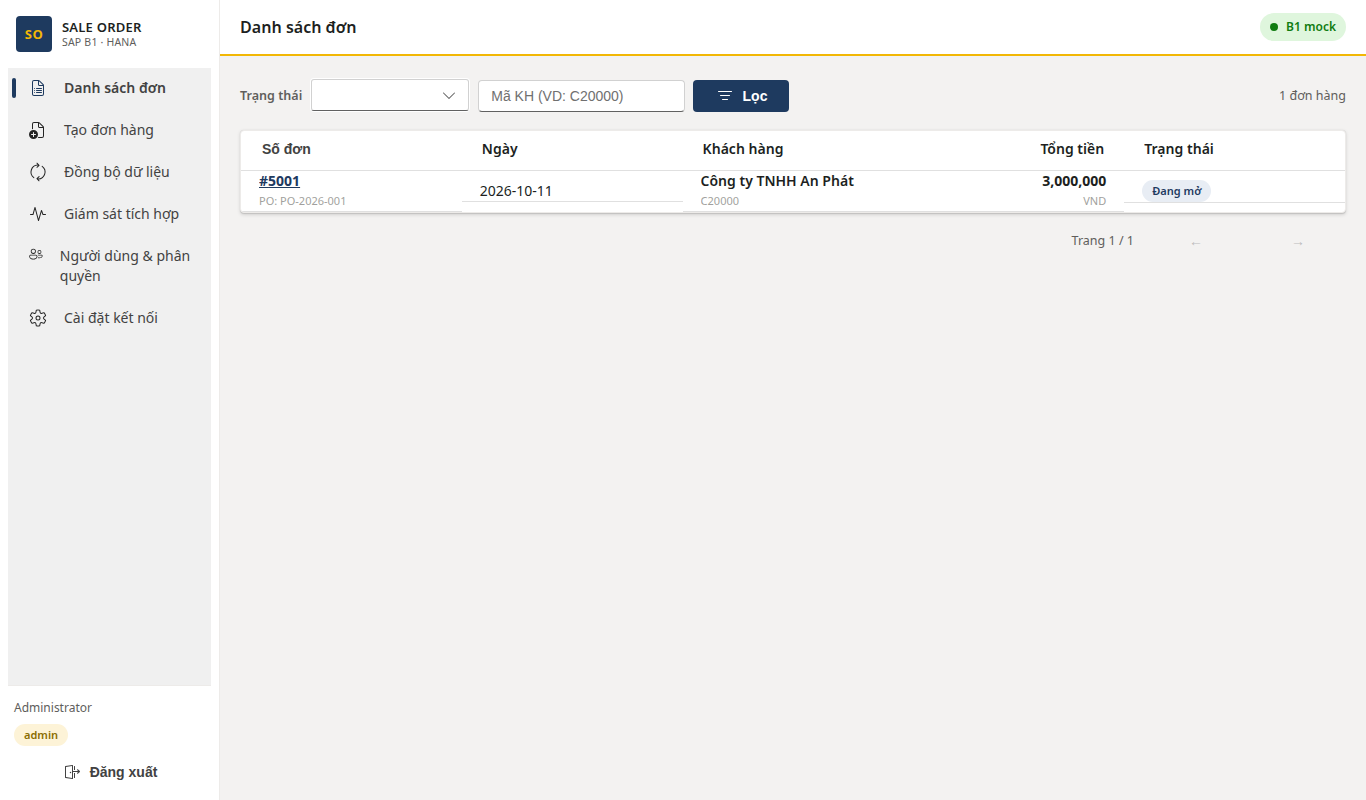
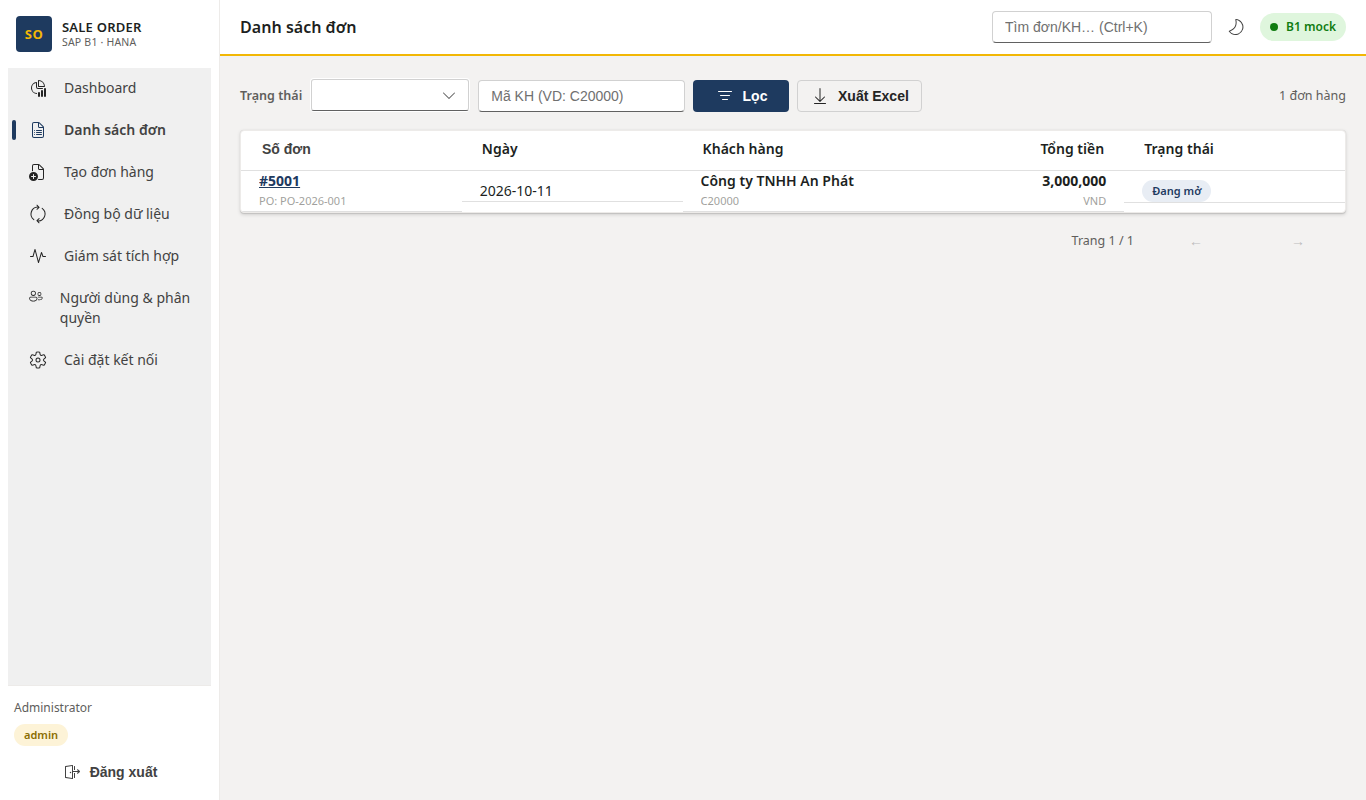
Ảnh giao diện v2.2: Xuất Excel, Copy/In đơn, tab audit người dùng, dark mode; fix dark mode API + tab audit

diff --git a/SalesWeb.Client/wwwroot/css/app.css b/SalesWeb.Client/wwwroot/css/app.css
@@ -475,3 +475,15 @@ fluent-data-grid .column-header { background: #faf9f8; }
   .fm-card { box-shadow: none !important; border: 1px solid #ddd !important; break-inside: avoid; }
   body { background: #fff !important; }
 }
+
+/* ===== C9: Dark mode cho CSS custom ===== */
+body[data-theme="dark"] .fm-app-root { background: #1b1a19; color: #f5f5f5; }
+body[data-theme="dark"] .fm-page { background: #1b1a19; }
+body[data-theme="dark"] .fm-topbar { background: #252423; border-color: #3b3a39; }
+body[data-theme="dark"] .fm-topbar__title { color: #f5f5f5; }
+body[data-theme="dark"] .fm-card { background: #252423; border-color: #3b3a39; }
+body[data-theme="dark"] .fm-kpi { background: #252423; border-color: #3b3a39; }
+body[data-theme="dark"] .fm-kpi .label { color: #d2d0ce; }
+body[data-theme="dark"] .fm-table-wrap { background: #252423; }
+body[data-theme="dark"] .fm-global-results { background: #252423; border-color: #3b3a39; }
+body[data-theme="dark"] .fm-global-item span { color: #d2d0ce; }

diff --git a/README.md b/README.md
@@ -56,6 +56,9 @@ docker compose up -d --build   # http://localhost:8080
 ### Dashboard (v2.2)
 ![Dashboard](docs/screenshots/dashboard.png)
 
+### Dashboard — chế độ tối (v2.2)
+![Dashboard dark mode](docs/screenshots/dashboard-dark.png)
+
 ### Đăng nhập
 ![Đăng nhập](docs/screenshots/login.png)
 
@@ -73,6 +76,9 @@ docker compose up -d --build   # http://localhost:8080
 
 ### Giám sát tích hợp
 ![Giám sát tích hợp](docs/screenshots/giam-sat-tich-hop.png)
+
+### Giám sát — tab thao tác người dùng (v2.2)
+![Audit người dùng](docs/screenshots/audit-nguoi-dung.png)
 
 ### Người dùng & phân quyền
 ![Người dùng & phân quyền](docs/screenshots/nguoi-dung.png)
